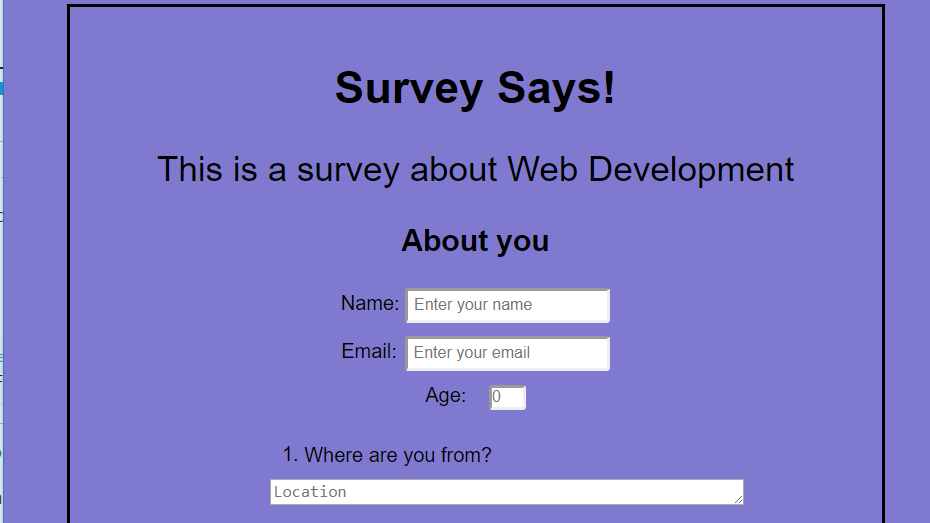
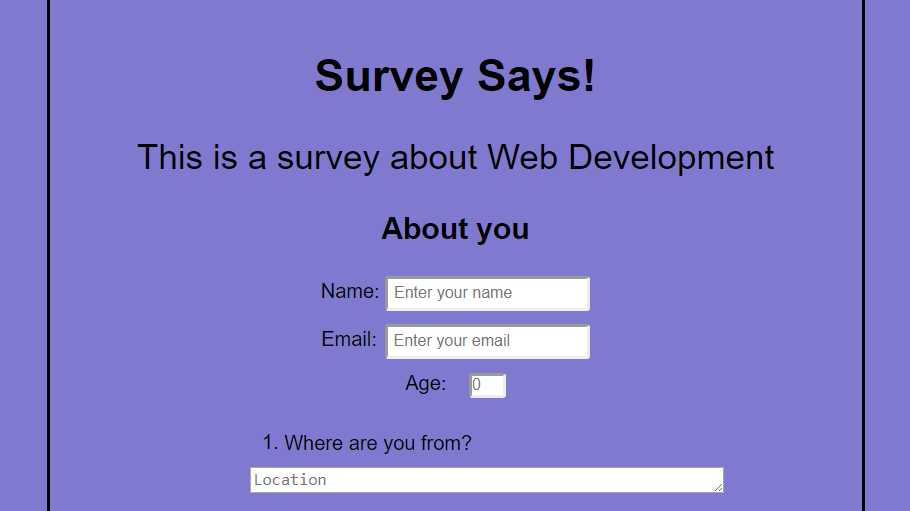
add navbar, bootstrap, and position elements

diff --git a/index.html b/index.html
@@ -5,10 +5,36 @@
   <meta name="viewport" content="width=device-width, initial-scale=1.0">
   <meta http-equiv="X-UA-Compatible" content="ie=edge">
   <title>Image Carousel</title>
+  <link rel="stylesheet" href="https://maxcdn.bootstrapcdn.com/bootstrap/3.3.7/css/bootstrap.min.css"
+	integrity="sha384-BVYiiSIFeK1dGmJRAkycuHAHRg32OmUcww7on3RYdg4Va+PmSTsz/K68vbdEjh4u" crossorigin="anonymous">
   <link rel="stylesheet" href="styles.css">
 </head>
 <body>
+  <div id="nav" class="navbar navbar-default navbar-fixed-top">
+  <nav>
+    <div class="container-fluid">
+      <!-- Brand and toggle get grouped for better mobile display -->
+      <div class="navbar-header">
+        <button type="button" class="navbar-toggle collapsed" data-toggle="collapse" data-target="#bs-example-navbar-collapse-1" aria-expanded="false">
+          <span class="sr-only">Toggle navigation</span>
+          <span class="icon-bar"></span>
+          <span class="icon-bar"></span>
+          <span class="icon-bar"></span>
+        </button>
+        <a class="navbar-brand" href="#">J L</a>
+      </div>
+
+    <!-- Collect the nav links, forms, and other content for toggling -->
+    <div class="collapse navbar-collapse" id="bs-example-navbar-collapse-1">
+      <ul class="nav navbar-nav">
+        <li><a href="https://github.com/jlo4" target="_blank">My Github<span class="sr-only">(current)</span></a></li>
+      </ul>
+    </div><!-- /.navbar-collapse -->
+    </div><!-- /.container-fluid -->
+  </nav>
+</div>
   <div class="page">
+    <h1>Image Carousel</h1>
     <a class="previous" href="">&lt;</a>
       <div class="carousel">
       </div>

diff --git a/styles.css b/styles.css
@@ -9,9 +9,13 @@
   width: 0;
 }
 
+h1 {
+  font-size: 7rem;
+  text-align: center;
+}
 .page {
   height: 50%;
-  margin: 0 auto;
+  margin: 10% auto;
   width: 50%;
 }
 .carousel {
@@ -22,17 +26,18 @@
 
 img {
   height: 100%;
-  width: 100%;
+  width: 97%;
 }
 
 a {
   float: left;
+  font-size: 3rem;
 }
 
 .previous {
-  margin: 200px 20px 0 0;
+  margin: 22% 3.2% 0 0;
 }
 
 .next {
-  margin: 200px 0 0 20px;
+  margin: 22% 0 0 .2%;
 }
